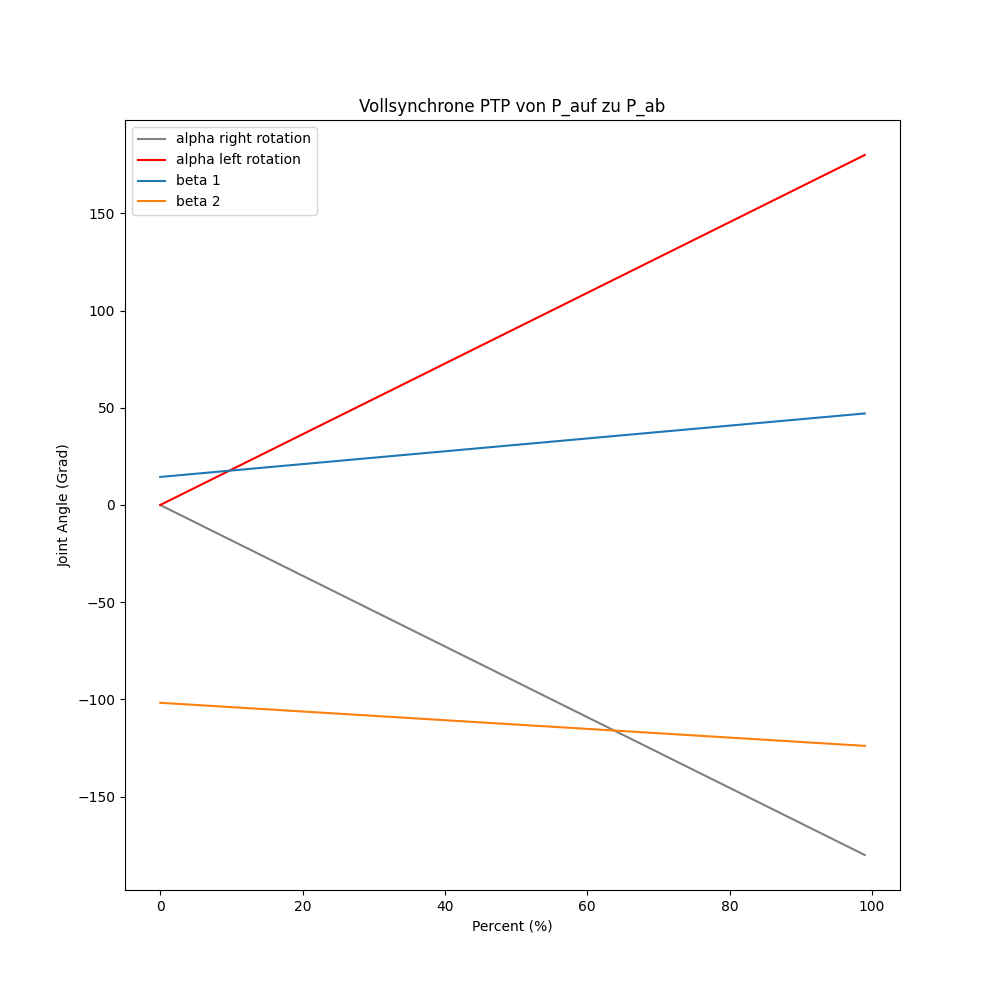
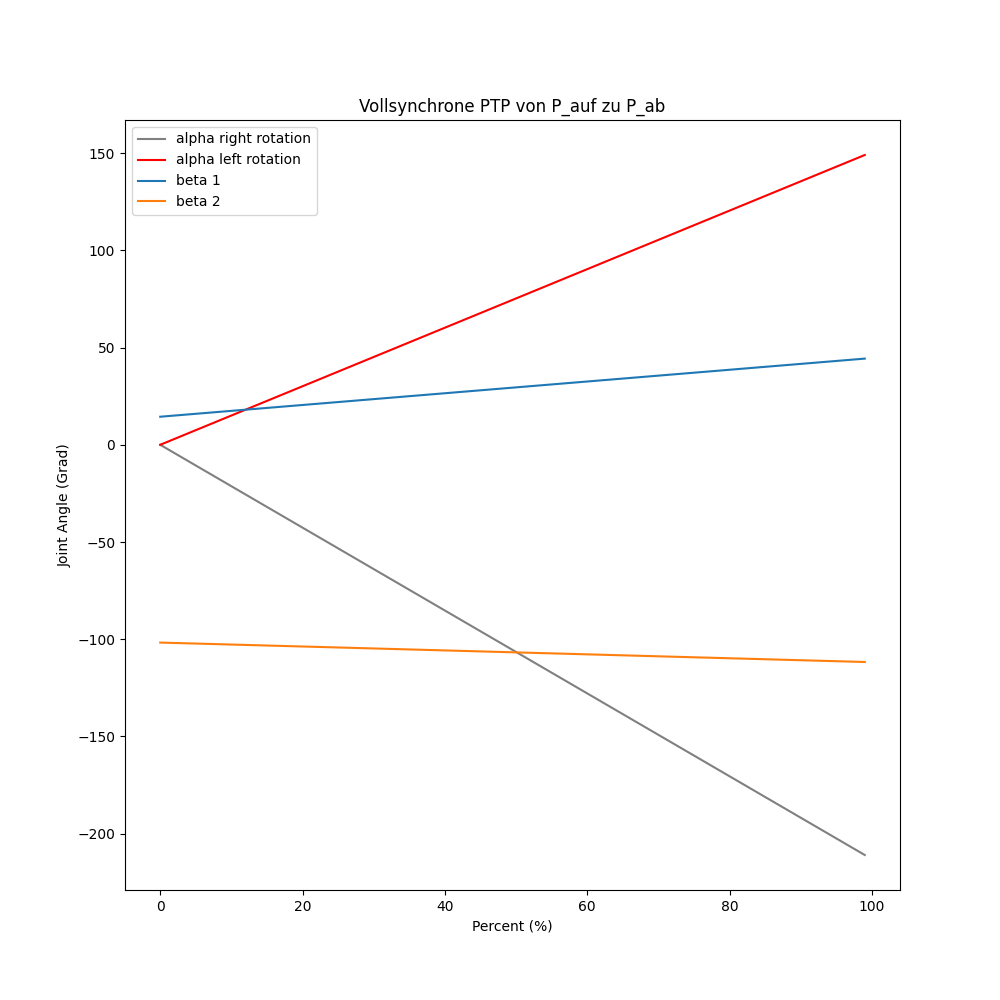
save

diff --git a/pick_up_sim.py b/pick_up_sim.py
@@ -9,7 +9,7 @@ def plot_sim(robot: Robot):
     fig, axes = plt.subplots(1, 2, figsize=(20, 10))
 
     target_1 = [0.9, 0.0, -0.05, 1]
-    target_2 = [-0.2, 0.0, 0.25, 1]
+    target_2 = [-0.2, 0.3, 0.25, 1]
 
     alpha_auf, beta_1_auf, beta_2_auf = robot.inverse_kinematics(np.array(target_1), elbow_up=True)
     base_auf, j1_auf, j2_auf = robot.get_points(alpha_auf, beta_1_auf, beta_2_auf)
